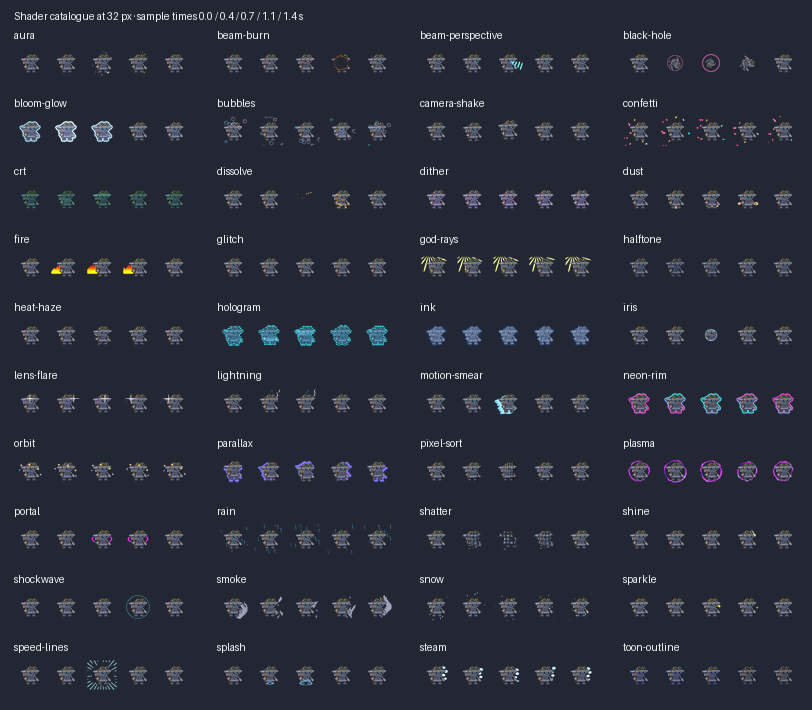
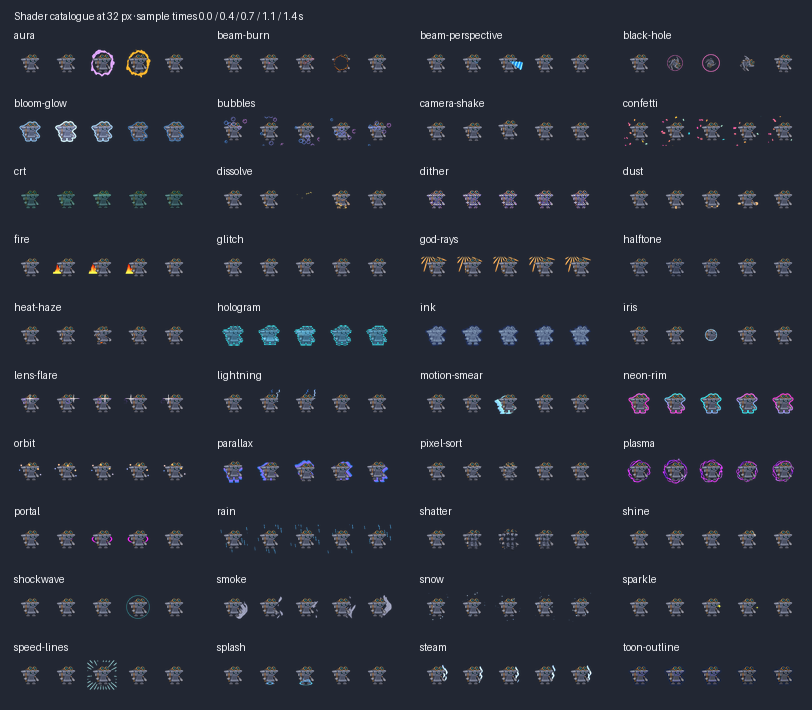
fix(shaders): tune small-size motion and review all 40 GIFs

diff --git a/gallery/shaders/REVIEW.md b/gallery/shaders/REVIEW.md
@@ -1,20 +1,50 @@
 # Shader motion review
 
-The gallery uses the same Tavvik cel to make changes in motion and visibility easy to compare. Each sequence starts from 512 px renders and is fitted to the Slack preset. Follow the [individual GIFs](README.md) for timing and use the [dark](dark-32.png) and [light](light-32.png) sheets to compare five frames at 32 px.
+All 40 effects earned a place in the gallery. The judgments below use the exported GIFs on charcoal and warm white. I stepped through each decoded exposure at 128 px and 32 px and used nearest-neighbour 4× views to inspect moving edges, transparent holes and palette transitions. Repeated drawings share a GIF exposure. Every loop measured 1,600 ms. The gallery builder checks the canvas border on every decoded frame. [Gallery](README.md) · [Dark sheet](dark-32.png) · [Light sheet](light-32.png)
 
-## First pass and fixes
+| Effect | Verdict from the exported animation |
+| --- | --- |
+| Aura | **Revised.** The charge originally appeared as isolated specks. A wider, denser band around the silhouette carries the blue-to-gold change through the hold. |
+| Beam burn | **Revised.** The hole expanded until the character abruptly filled back in. Its radius now contracts during recovery, giving the ember edge a path home. |
+| Beam perspective | **Revised.** Three floating cyan ticks looked disconnected from the source. Blue between the bright crests joins them into a widening cone at the peak. |
+| Black hole | **Keep.** The horn and goggles spiral inward first. The pink rim holds their location during the strongest squeeze, and the opening pose returns smoothly. Works as a transition. |
+| Bloom glow | **Revised.** The old half-cycle crossed the GIF transparency threshold and the halo switched off. Its radius now breathes while a blue inner edge stays visible. |
+| Bubbles | **Revised.** Fine pastel rims vanished on white. Thicker violet and blue rims carry the highlights upward without filling the bubbles or covering the face. |
+| Camera shake | **Keep.** A single short jolt has a clear rest on either side. The silhouette stays within the frame. The shake helper now also accepts an independently timed strength. |
+| Confetti | **Keep.** Wide paper faces and narrow turned edges alternate as pieces fall. The gaps let the character read through the busy peak. |
+| CRT | **Keep.** The traveling band and green cast read as a display at 32 px. The fine scanlines are clearer at native size and stay inside the cel. |
+| Dissolve | **Keep.** The bright perforations grow into a deliberate disappearance. The same islands return in reverse order, so the midpoint hold has a purpose. |
+| Dither | **Revised.** Fine checks averaged into a tint. A coarser ordered grid gives the four stepped phases a visible texture at emoji size. |
+| Dust | **Revised.** The tan puffs had perfectly oval edges. Small variations break up the contours as they spread from behind the feet. A quiet accent for a landing. |
+| Fire | **Revised.** The plume resembled a yellow wedge. Tapered, moving tongues and a cooler red tip separate the flame shapes beside the hammer. |
+| Glitch | **Keep.** Two short interruptions split the silhouette into colored strips, with a readable rest between them. The face recovers cleanly. |
+| God rays | **Revised.** Pale yellow shafts washed out on white. Distance-dependent amber gives the fan a readable edge on both backgrounds. |
+| Halftone | **Keep.** Dot sizes modulate within the anvil while the outer contour holds still. At 32 px it works as a print texture under another action. |
+| Heat haze | **Revised.** The displacement was lost on reduction. Fewer, wider bends now move the silhouette above a narrow orange heat source. |
+| Hologram | **Keep.** The moving breaks in the cyan outline identify the projection. Enough dark detail survives inside the face to keep the expression. |
+| Ink | **Keep.** The navy bleed pools around the horn and boots, particularly clearly on white. The lighter interior wash keeps the figure legible on charcoal. |
+| Iris | **Keep.** The circular crop closes around the face and reverses. The rim is fine on white, but the changing circular silhouette carries the transition. |
+| Lens flare | **Keep.** The moving cross reads on the goggles at 32 px. The secondary optical ghost is a quieter detail at native size. |
+| Lightning | **Revised.** Thin white strokes vanished against white. Wider branches with a blue edge and a narrow white core retain a short, sharp strike. |
+| Motion smear | **Keep.** The cyan trail separates from the leading contour and collapses behind it. The eyes stay sharp throughout. |
+| Neon rim | **Keep.** Color travels around a continuous outline with enough width to survive reduction. The original surface colors remain visible inside it. |
+| Orbit | **Keep.** Warm near dots pass in front while cooler far dots disappear behind the head. That occlusion carries the sense of depth even at 32 px. |
+| Parallax | **Revised.** The far copy broke into peppered pixels at the GIF alpha threshold. A stronger blue far layer separates the three moving planes. |
+| Pixel sort | **Revised.** Random row offsets disagreed between sample and destination, producing dark blocks. Both now use the same origin. Longer runs pull recognizable bands from the source, and transparent samples retain the underlying color. |
+| Plasma | **Revised.** One purple circle read like a second portal. Two strands now cross and separate around the silhouette throughout the loop. |
+| Portal | **Keep.** The flattened magenta ellipse opens behind the waist and closes to rest. The character conceals its middle, placing the opening behind the figure. |
+| Rain | **Revised.** Hairline drops broke up at 32 px. Slightly wider slanted strokes keep their direction across both themes and fall behind the face. |
+| Shatter | **Revised.** Fixed square windows made the face look like a checkerboard. The pieces now carry their own source pixels outward, rotate separately, and fit back together. |
+| Shine | **Revised.** The broad white highlight erased the eye at mid-sweep. Lower peak brightness retains shading beneath the diagonal band. |
+| Shockwave | **Keep.** The ring expands beyond the horn, thins and disappears. Its rest frames give enough separation for another impact on the loop. |
+| Smoke | **Keep.** Broad curls separate into small wisps on the open side. The lavender-gray value survives either matte without obscuring the character. |
+| Snow | **Revised.** Near-white flecks disappeared on the light matte. Blue shading gives the falling flakes a second value against white. |
+| Sparkle | **Keep.** The glints appear in sequence beside the face and shrink back into points. The largest four-point star carries the read on white. |
+| Speed lines | **Keep.** An uneven ring of radial strokes directs attention inward. Their open center leaves room for a face or an action pose. |
+| Splash | **Keep.** The low crown and rising droplets precede a widening, flattened ripple. The feet anchor the water to a surface. |
+| Steam | **Revised.** Separate oval puffs looked like bubbles. Taller, bent wisps overlap as they rise and disperse beside the character. |
+| Toon outline | **Keep.** The dark contour thickens and relaxes around the figure. The stroke is clearest on white, while the brighter cel carries the silhouette on charcoal. |
 
-- **Hologram.** The saturated cyan hid Tavvik’s face. Lowered the tint in the shadows and kept more of the original value range. The revised frame retains a face beneath the scanlines.
-- **Fire.** The first flame was mostly behind Tavvik. Moved the effect beside the cel and used the bloom resolve to fade the plume before the canvas edge. Rechecked all exported frames for opaque borders.
-- **God-rays and shockwave.** Thin lines were hard to read in the small review. Widened the rays and increased the ring intensity in the gallery. Both have a shape that can be followed through the sequence.
-- **Low-amplitude treatments.** Heat haze, pixel sort and ordered dithering are easiest to see at 128 px. At 32 px, try shaping the next pass around the action so the effect can carry more of the frame.
+The transparent GIFs give soft light a harder outer edge than a continuous-alpha render. In the revised bloom, fire and aura, changes in shape or color carry the motion through that threshold. For new effects, place the source against the specific pose and try different timings on the same drawing. The shared compositor bounds opacity while retaining overbright color, and the shake offset can follow the timing of any contact.
 
-## Technical pass
-
-All 40 files are 128×128 looping GIFs, between 21,545 and 91,476 bytes. The GIFs retain 1.6-second timelines with 4 to 16 encoded frames. The gallery builder also checks every frame for opaque pixels along the border. The test suite renders each fragment in ModernGL and headless WebGL 2.
-
-Regenerate the gallery from the checkout root with `uv run --project skills/emoji-forge --locked --extra gpu python tools/build_shader_gallery.py`.
-
-## Motion designer hand-off
-
-Check the impact and recovery of the rings, beams, and particles. Look for lost silhouettes under light effects, discontinuities in the repeating motion, and unreadable effects at the target size. Note the shader, timestamp, background and desired change in the review. The library is staged for this review before release.
+Rebuild the checked-in gallery with `uv run --project skills/emoji-forge --locked --extra gpu python tools/build_shader_gallery.py`. The rendering tests exercise every shader in ModernGL and Chromium WebGL 2.

diff --git a/skills/emoji-forge/SKILL.md b/skills/emoji-forge/SKILL.md
@@ -13,6 +13,6 @@ Explore ideas with the user. Sketch or discuss a storyboard when it helps, try p
 
 Use `forge new`, `sheets`, `stage` and `review-pack` for [production scaffolds and reviewer hand-offs](references/production-pipeline.md). For one-shot work, run `forge make "idea" --yes --json`. Fulfill each native image task, then run `forge make --resume --json` with the same project until the overview and ZIP are ready. Ask only at an optional approval gate. If there is no native tool, use a user-provided image API, hand-made art or a Python drawing hook.
 
-Write shaders for the idea at hand using the [custom effect walkthrough](references/shaders.md). Use or remix the [shader recipes](references/shader-recipes.md), or start from your own fragment and passes.
+Write shaders for the idea at hand using the [custom effect walkthrough](references/shaders.md). Choose the action, its point of contact and its strongest silhouette first. Try two different timings on the same pose at 32 px. Borrow individual techniques from the [shader recipes](references/shader-recipes.md), or start from your own fragment and passes.
 
 Review individual assets, how they interact in motion, and the whole pack side by side with `forge lineup`. Use `forge check` with a model mask and a drift tolerance to catch unintended changes of scale or position. Use `forge snapshot` before a revision and `forge compare` to show the difference. Read the [review tips](references/review-checklist.md) or the [Slack export reference](references/slack.md) when relevant. For ideas, see the optional craft notes on [timing](references/animation-timing.md), [expressions](references/expressions.md), and [common problems](references/lessons.md).

diff --git a/skills/emoji-forge/references/shaders.md b/skills/emoji-forge/references/shaders.md
@@ -83,6 +83,6 @@ Browse the [shader recipes](shader-recipes.md) for techniques to use, combine or
 | Sample, outline or light the cel | `forgeSample`, `forgeDilateAlpha`, `forgeOutline`, `brightPass`, `blurPass`, `over` |
 | Move or shake the view around a point | `forgeView`, `forgeShake` |
 
-For a repeating energy effect, feed `progress` into `forgeLoopNoise(uv * 8.0, progress, 1.2)` to return to the initial noise field. For a single hit, start particles where the objects meet, then animate `forgeBallistic` with each particle's local age. Use `forgePalette` to cool the particles as they move. A short `forgePulse` can drive both the contact flash and the shake so they land together.
+For a repeating energy effect, feed `progress` into `forgeLoopNoise(uv * 8.0, progress, 1.2)` to return to the initial noise field. For a single hit, start particles where the objects meet, then animate `forgeBallistic` with each particle's local age. Use `forgePalette` to cool the particles as they move. Pass an envelope of your own to `forgeShakeOffset(phase, amount)` to place recoil on a particular exposure. A short `forgePulse` can drive both the contact flash and the shake so they land together.
 
 Inspect the exported GIF at its real display size. Sample the setup, peak and recovery at 32 px on light and dark backgrounds. Larger shapes, brighter contrast and a clear contact point can help a short effect survive downsampling and GIF palette fitting.
